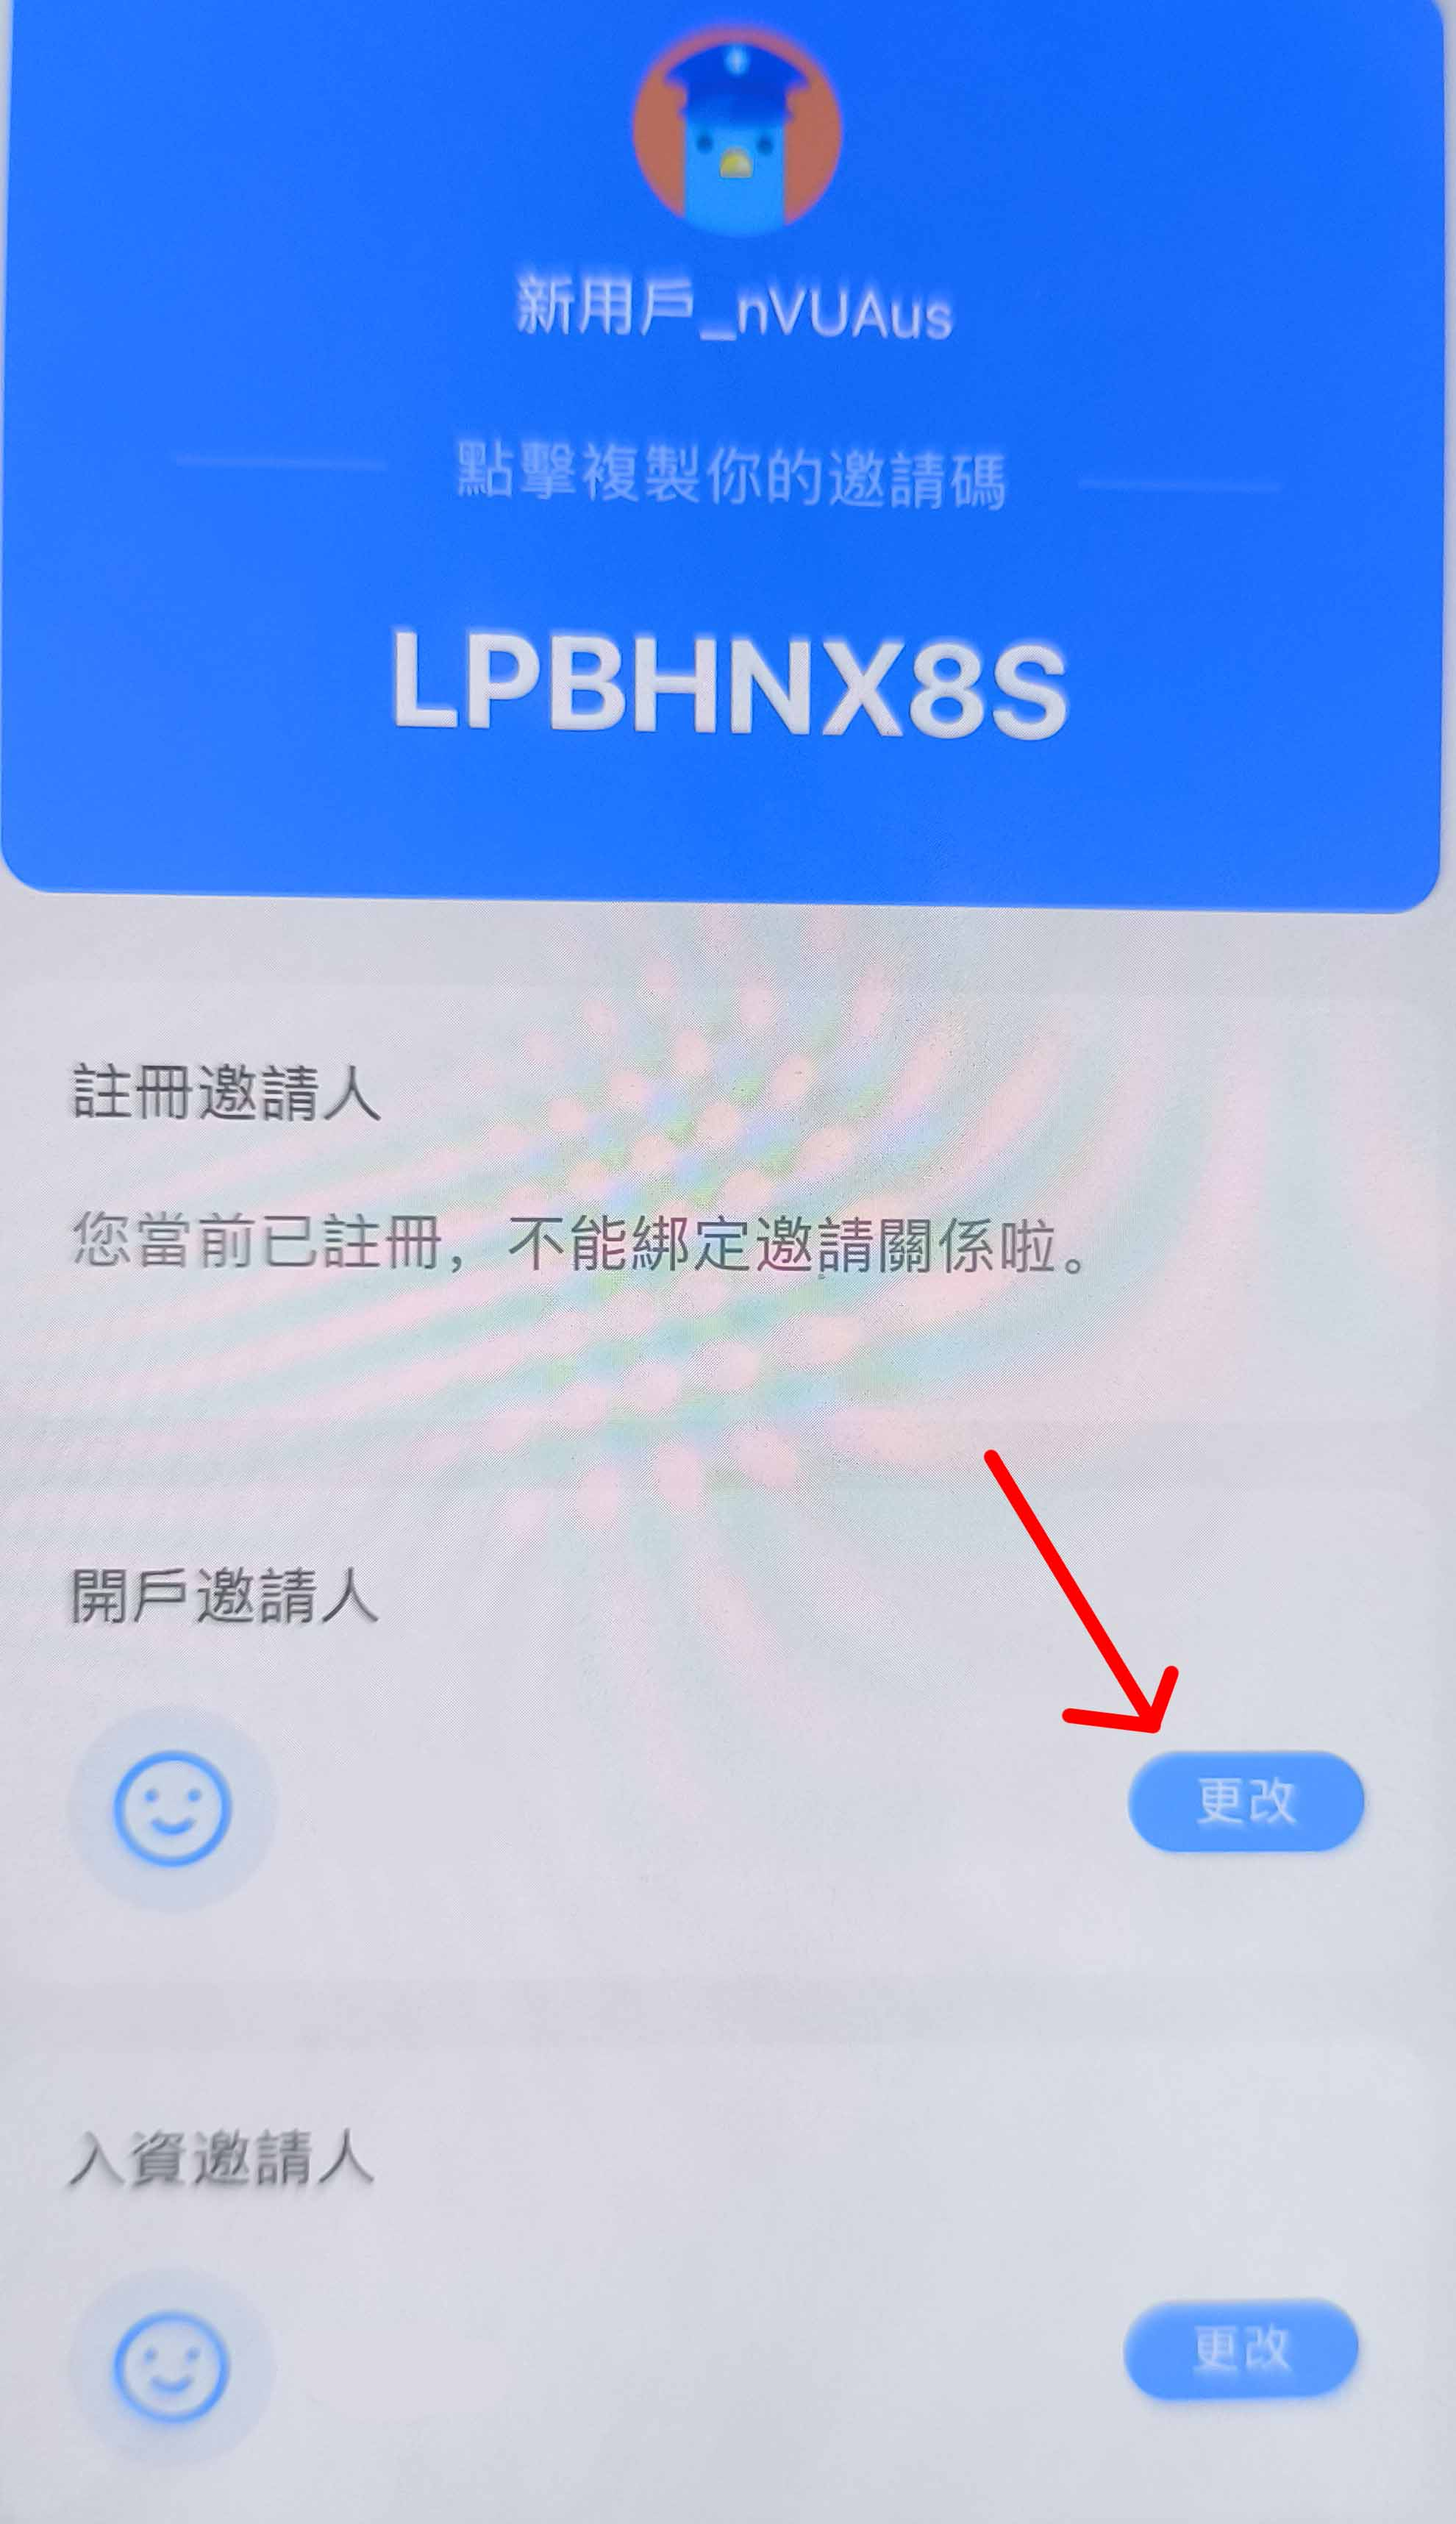
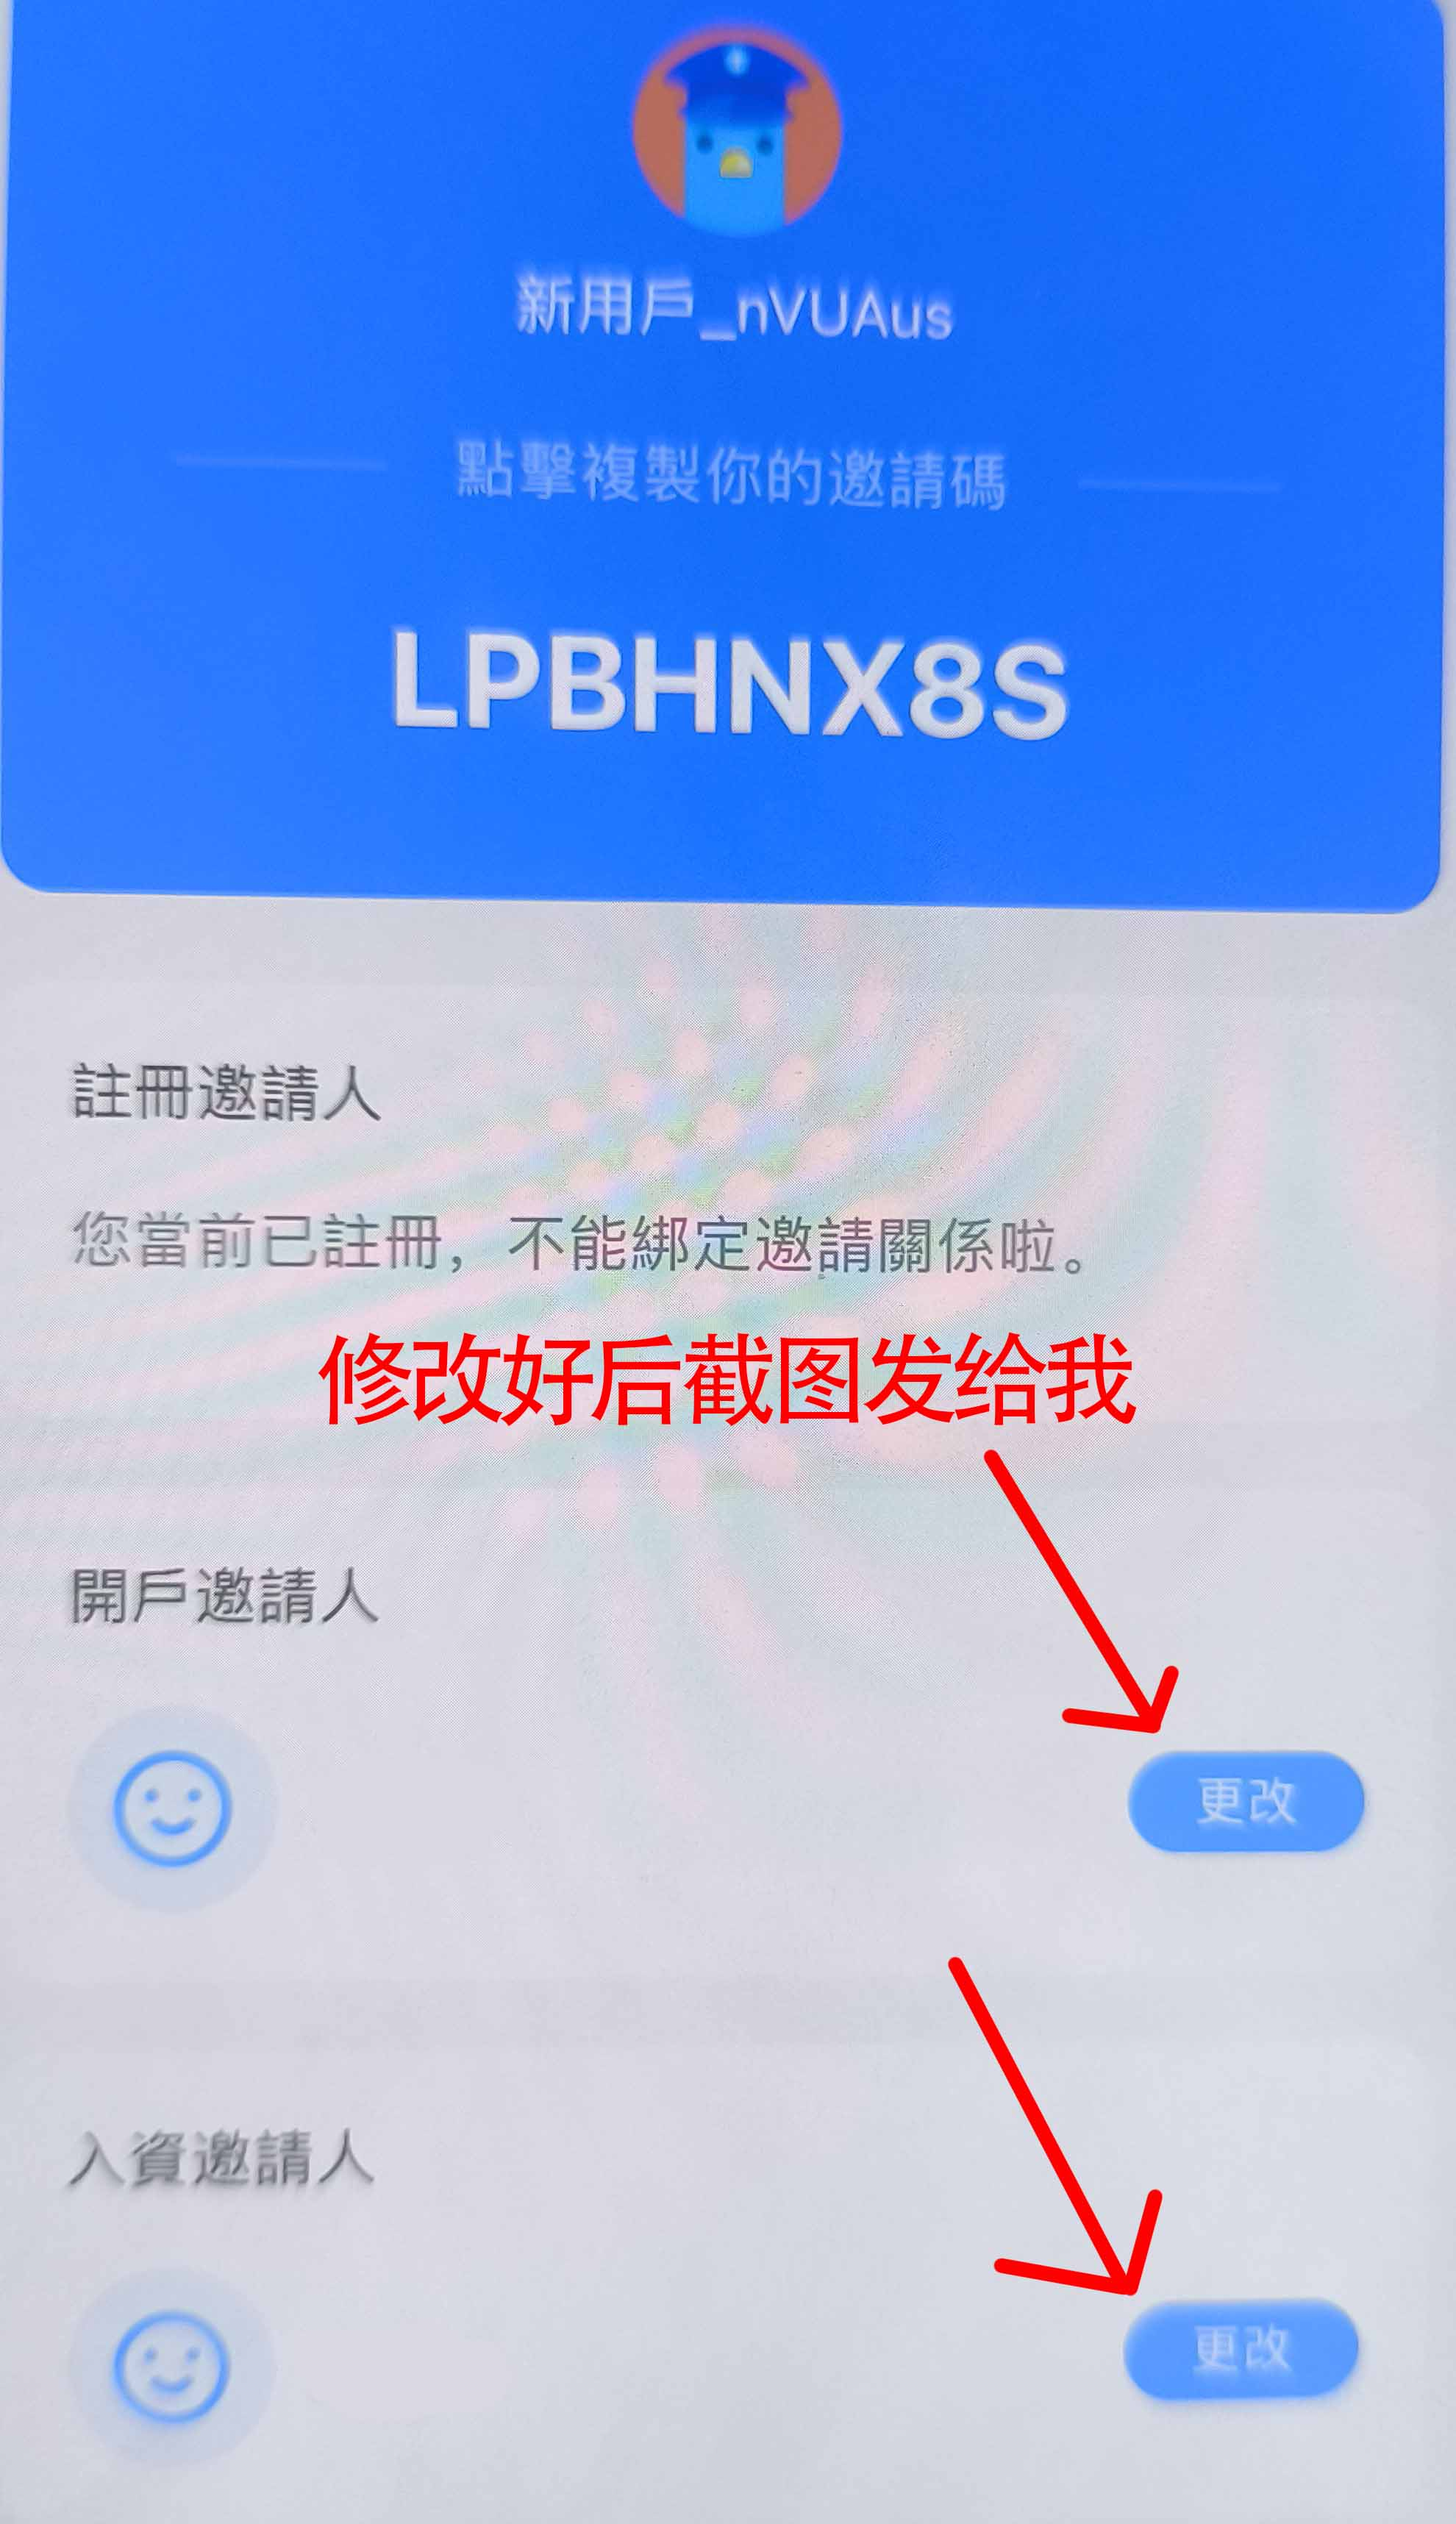
Require 30-day hold for promo; add image
Update promotional copy to require first deposit to be held for 30 days (was 3 days) to qualify for the HKD 300 rebate. Also replace assets/macau-ant-2.jpg and add a new image assets/t1.bbroot.com.jpg. This corrects the offer terms and adds the new asset for site content.

Changed region(s): [[0.2157, 0.53, 0.801, 0.5612], [0.6778, 0.8418, 0.801, 0.9353], [0.647, 0.7794, 0.7086, 0.8418]]

diff --git a/site-content.js b/site-content.js
@@ -168,7 +168,7 @@
                 {
                     title: '🎁 开户福利：',
                     items: [
-                        '首次入金 ≥ 10,000港币且维持三天：<span class="highlight">可返 300 HKD</span>',
+                        '首次入金 ≥ 10,000港币且维持三十天：<span class="highlight">可返 300 HKD</span>',
                         '完成入金<span class="highlight">可享受一世免佣与实时行情</span>',
                         '返现福利无需交易，港卡出金免费'
                     ]
